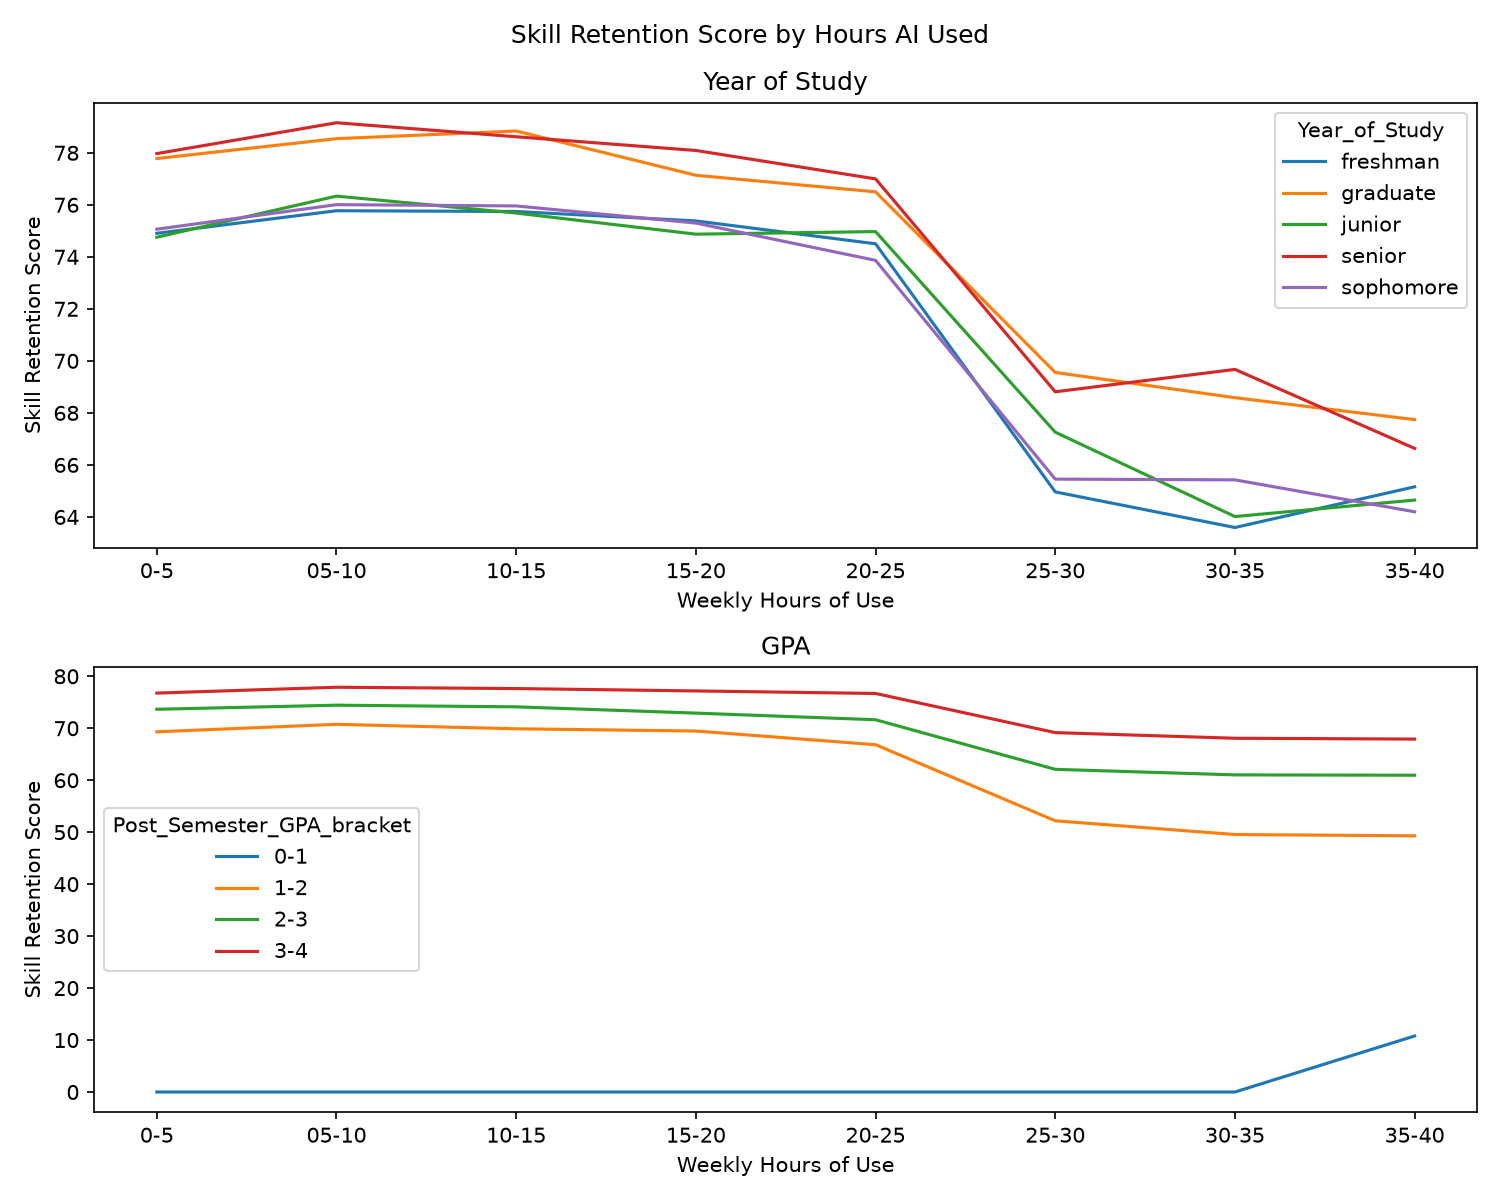
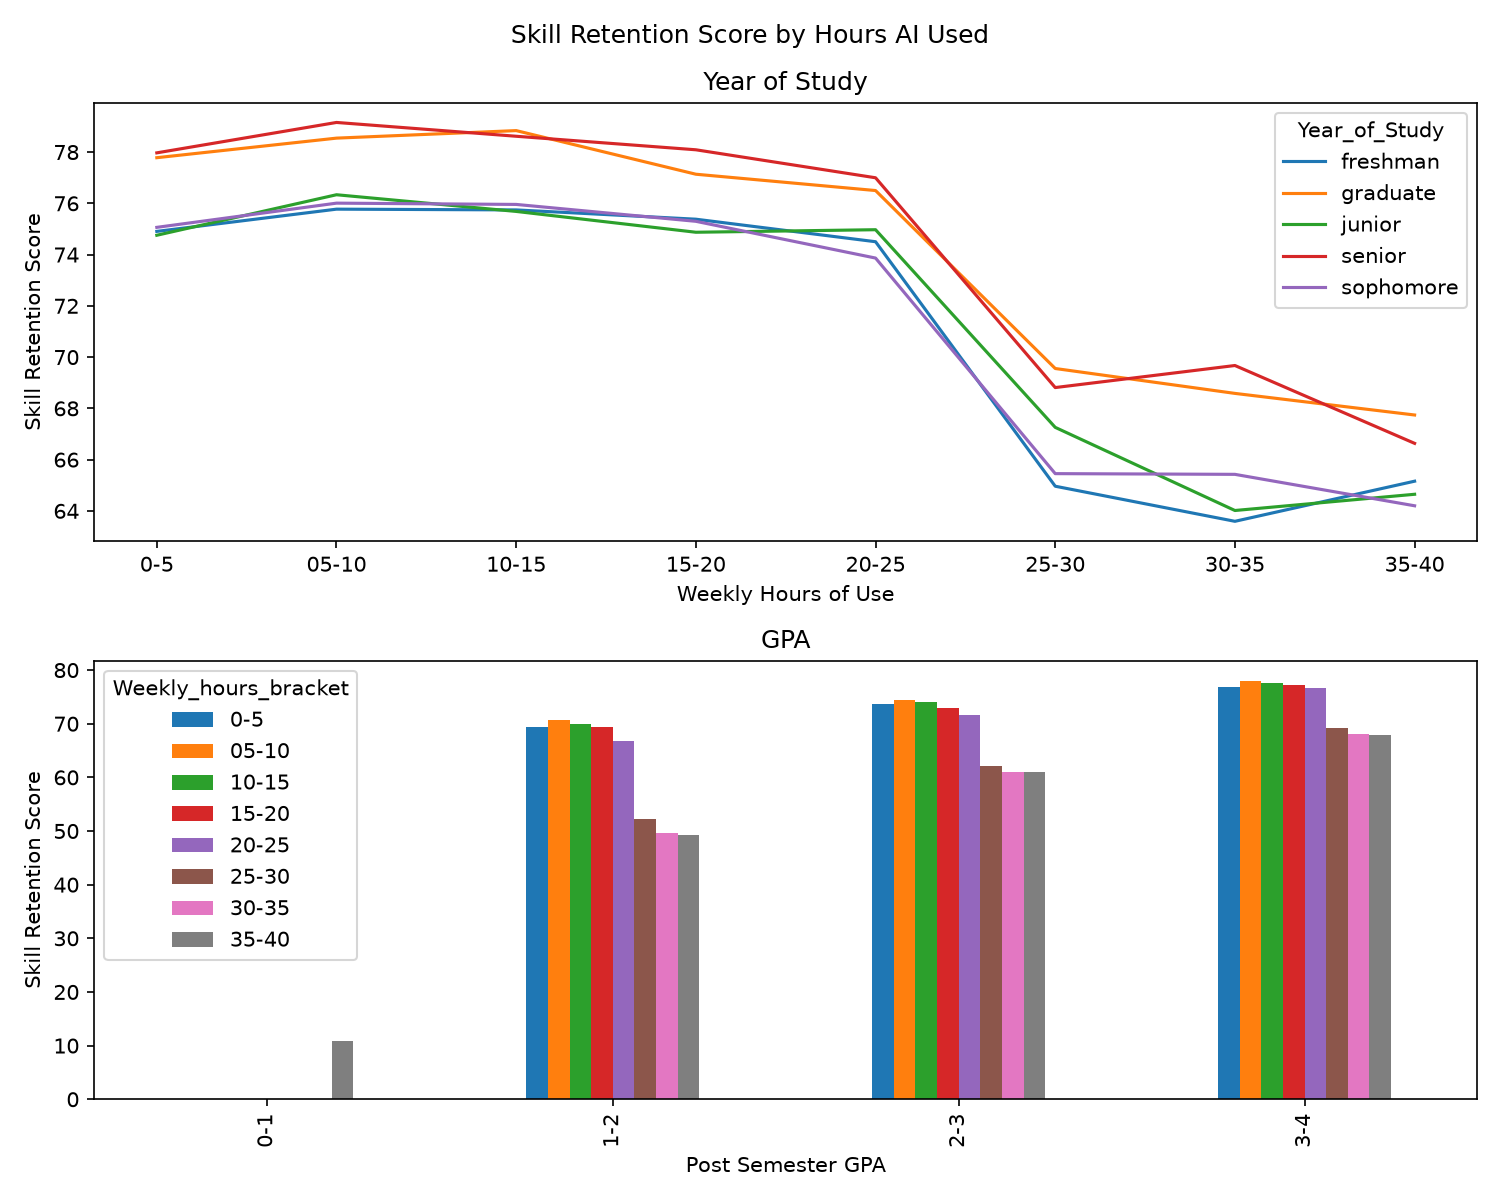
updated gpa to bar graph and x axis to gpa bracket

diff --git a/plot_skill_retention.py b/plot_skill_retention.py
@@ -27,8 +27,8 @@ year_pivot = df.pivot_table(
 
 post_GPA_pivot = df.pivot_table(
     values="Skill_Retention_Score",
-    index="Weekly_hours_bracket",
-    columns="Post_Semester_GPA_bracket",
+    index="Post_Semester_GPA_bracket",
+    columns="Weekly_hours_bracket",
     aggfunc="mean",
     fill_value=0
 )
@@ -40,9 +40,9 @@ ax1.set_title("Year of Study")
 ax1.set_xlabel("Weekly Hours of Use")
 ax1.set_ylabel("Skill Retention Score")
 
-post_GPA_pivot.plot(kind="line", ax=ax2)
+post_GPA_pivot.plot(kind="bar", ax=ax2)
 ax2.set_title("GPA")
-ax2.set_xlabel("Weekly Hours of Use")
+ax2.set_xlabel("Post Semester GPA")
 ax2.set_ylabel("Skill Retention Score")
 
 plt.tight_layout()